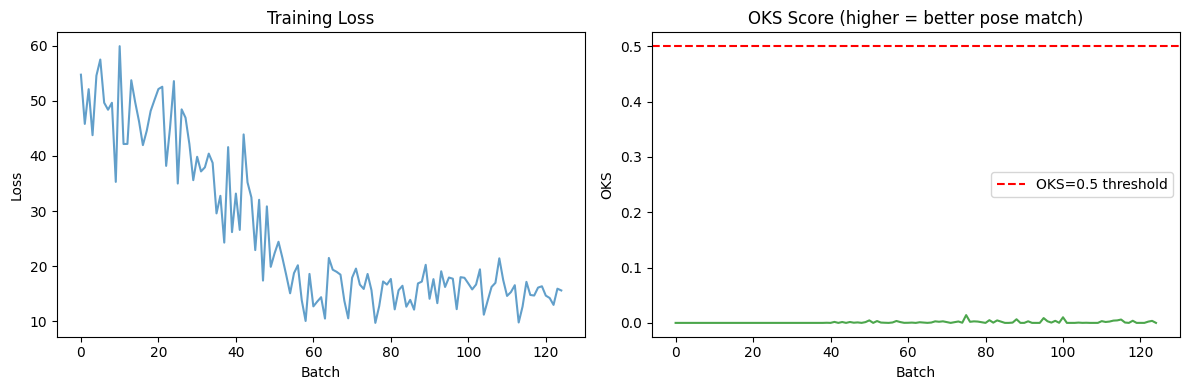
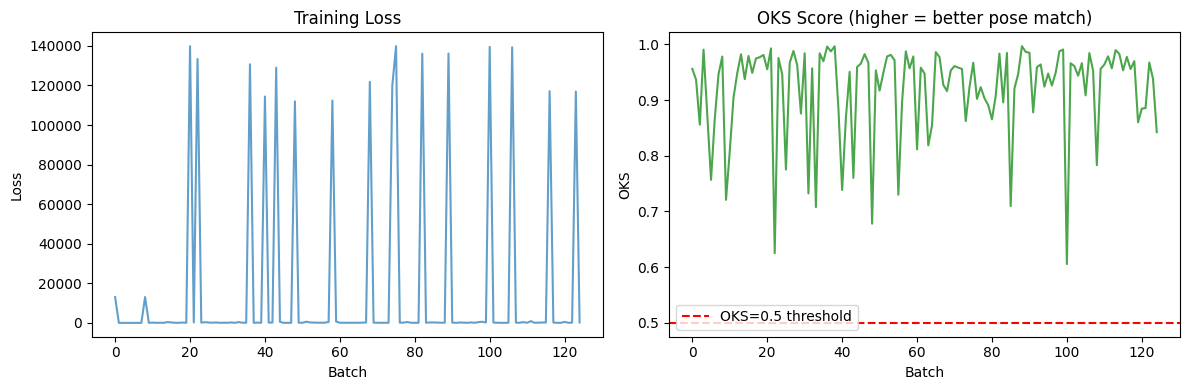
robusting root causes of training degeneration results

diff --git a/poc/biosense_twr/inversion/pose_net.py b/poc/biosense_twr/inversion/pose_net.py
@@ -95,7 +95,7 @@ class BioSensePoseNet(nn.Module):
         x = self.res3(self.enc3(x))
         x = self.global_pool(x).flatten(1)  # (B, 64)
         x = self.trunk(x)
-        conf   = torch.sigmoid(self.conf_head(x))
+        conf   = self.conf_head(x)                        # raw logits for BCEWithLogitsLoss
         coords = self.coords_head(x).view(-1, N_JOINTS, 3)
         return PoseOutput(confidence=conf, coords=coords)
 